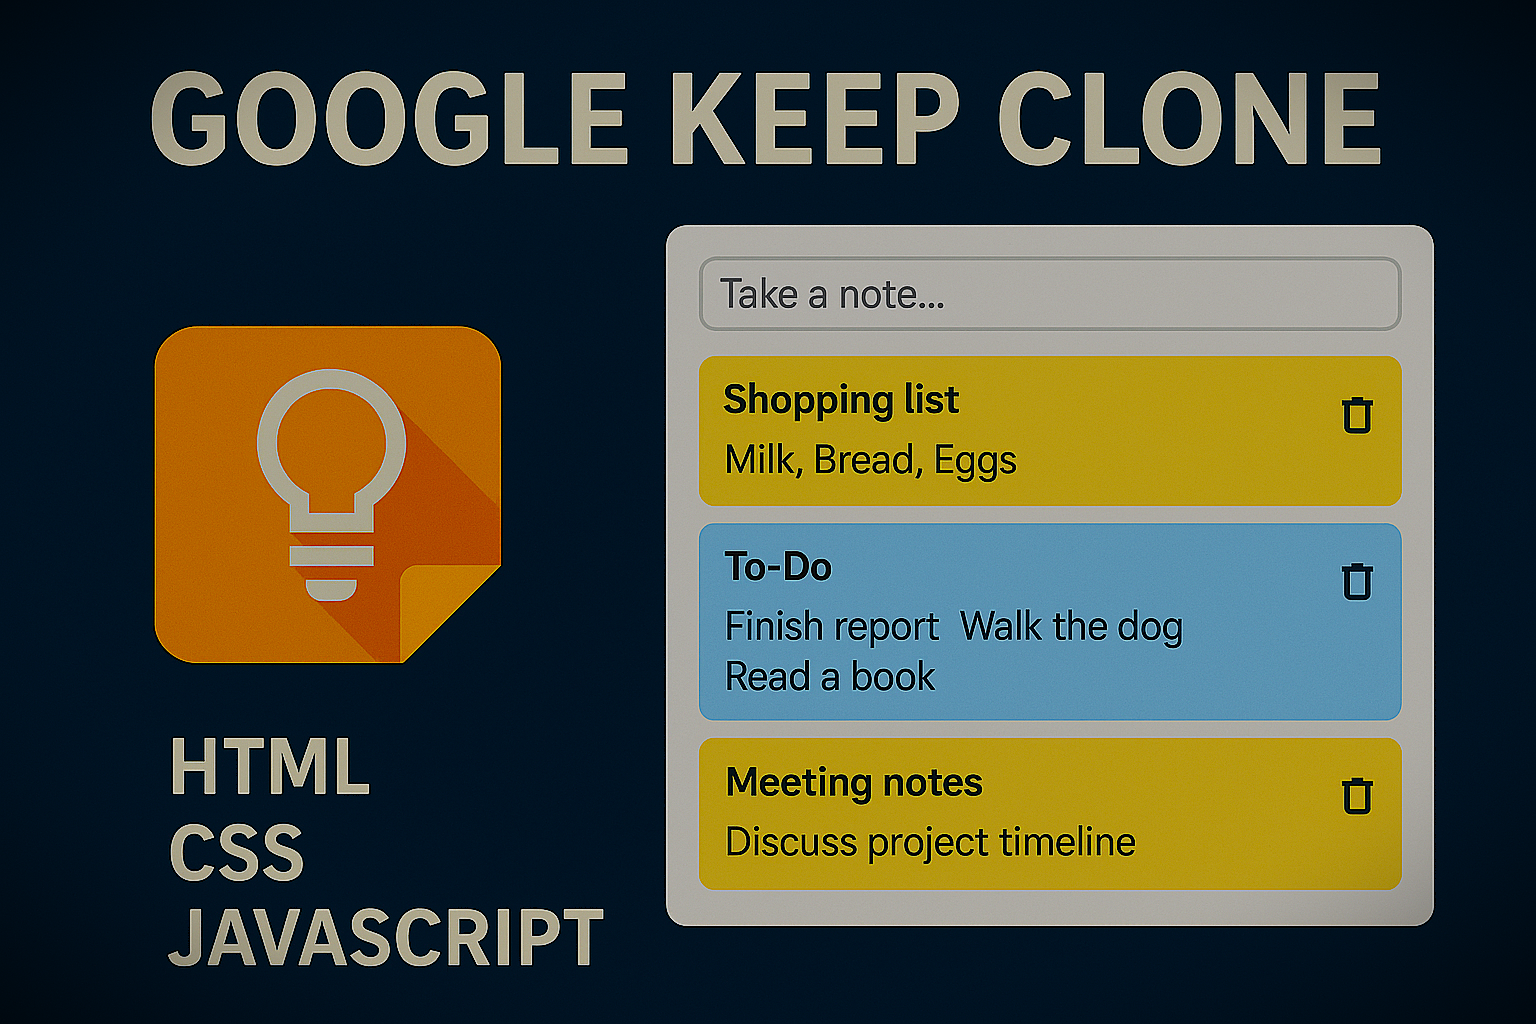
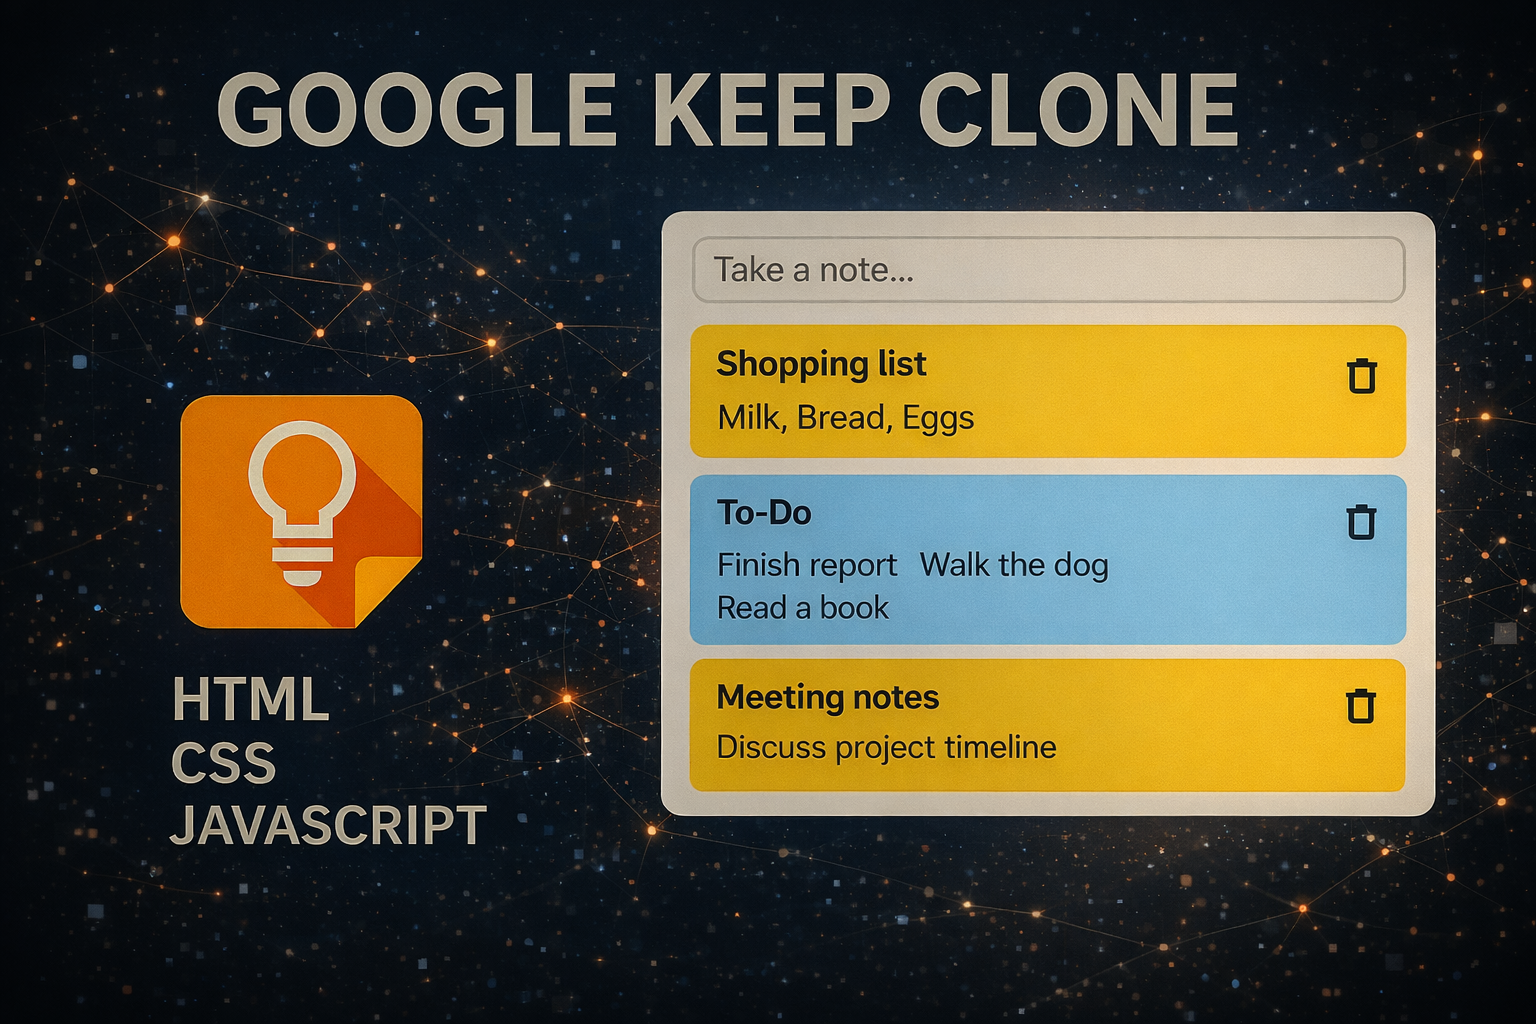
update resume site

diff --git a/about.css b/about.css
@@ -12,7 +12,7 @@ body {
   font-family: 'Poppins', sans-serif;  /* More modern font */
   color: white;
   /* background-color: rgb(235, 0, 0); */
-  background-image: url('images/banner.png');
+  background-image: url('images/imgw_dark.png');
   background-size: cover;
   position: relative;
   background-position: right;
@@ -69,22 +69,38 @@ body {
   margin-bottom: 20px;
 }
 
-.left-section {
+/* .left-section {
   flex: 1;
   margin-right: 20px;
 
   display: flex;          /* Use Flexbox for alignment */
-  justify-content: center; /* Horizontally center the image */
-  align-items: center;    /* Vertically center the image */
-  height: 100%;           /* Ensure the container has a defined height */
-  width: 100%;            /* Optional: Adjust as per your layout */
-}
+  /* justify-content: center; Horizontally center the image */
+  /* align-items: center;    Vertically center the image */
+  /* height: 100%;           Ensure the container has a defined height */
+  /* width: 100%;            Optional: Adjust as per your layout */
+/* } */
 
-.profile-img {
+/* .profile-img {
   max-width: 100%;        /* Make the image responsive */
-  max-height: 100%;       /* Ensure it doesn't exceed the container */
+  /* max-height: 100%;       Ensure it doesn't exceed the container */
+/* } */ 
+
+
+.left-section{
+flex:1;
+margin-right:20px;
+display:flex;
+justify-content:center;
+align-items:center;
+min-height:400px;
 }
 
+.profile-img{
+max-height:350px;
+width:auto;
+/* height:400px; */
+object-fit:contain;
+}
 
 .profile-img {
   width: 100%;

diff --git a/index.css b/index.css
@@ -11,7 +11,7 @@
     font-family: 'Poppins', sans-serif;  /* More modern font */
     color: white;
     background-color: black;
-    /* background: url('images/banner.png') no-repeat center center/cover; Background image */
+    /* background: url('images/network_imgw.png') no-repeat center center/cover; Background image */
   
     z-index: 1; 
   }
@@ -24,7 +24,7 @@
     align-items: center;
     height: 100vh;
     text-align: center;
-    background: url('images/banner_inedex.png') no-repeat center center/cover;  /* Background image */
+    background: url('images/network_imgw.png') no-repeat center center/cover;  /* Background image */
     background-size: cover;
     background-position: right;
     position: relative;
@@ -54,15 +54,18 @@
     font-weight: bold; /* Make it stand out */
   }
 
-  
   header h1 {
     font-size: 3rem;
     margin-bottom: 1rem;
   }
   
-  header p {
+  .intro {
     font-size: 1.5rem;
-    margin-bottom: 2rem;
+    margin-bottom: 0rem;
+  }
+  .typing {
+    font-size: 1.5rem;
+    margin-bottom: 1rem;
   }
   
   header nav {
@@ -173,6 +176,7 @@ nav a.active::after {
     header p {
       font-size: 1.75rem;
     }
+   
   }
   
 

diff --git a/about.html b/about.html
@@ -99,7 +99,7 @@
     <div class="about-container">
         <!-- Left section for photo and description -->
         <div class="left-section">
-            <img src="images/vector.png" alt="Your Image" class="profile-img">
+            <img src="images/vector1.png" alt="Your Image" class="profile-img">
         </div>
         
         <!-- Right section for details -->
@@ -111,7 +111,7 @@
             <div class="details-container">
                 <!-- Left column -->
                 <div class="left-column">
-                    <p><i class="fa fa-mail-forward icon"></i><span>Birthday:</span> 6 October 2004</p>
+                    <p><i class="fa fa-mail-forward icon"></i><span>D.O.B.:</span> 6 October 2004</p>
                     <p><i class="fa fa-mail-forward icon"></i><span>Website:</span> https://ankush-resume.onrender.com/</p>
                     <p><i class="fa fa-mail-forward icon"></i><span>Phone:</span> 9027xxxx80</p>
                 </div>

diff --git a/index.html b/index.html
@@ -41,10 +41,23 @@
 </div>
   <header>
     
-    
+    <!-- <p class="intro">
+  I'm passionate about
+</p>
+
+<p class="typing">
+  <span id="dynamic-text"></span><span class="cursor">|</span>
+</p> -->
     <div class="content">
       <h1>Ankush Parmar</h1>
-      <p>I'm a passionate about <span id="dynamic-text" class="highlight"></span>|</p>
+      <!-- <p>I'm a passionate about <span id="dynamic-text" class="highlight"></span>|</p> -->
+       <p class="intro">
+        I'm passionate about
+      </p>
+
+      <p class="typing">
+        <span id="dynamic-text"></span><span class="cursor">|</span>
+      </p>
       <nav class="navam">
         <a href="index.html" class="active">Home</a>
         <a href="about.html">About</a>

diff --git a/onepage.html b/onepage.html
@@ -234,7 +234,7 @@
             </div>
           </div>
         </div>
-        <div class="project-box" data-category="web" style="background-image: url('images/project9/show.png')">
+        <!-- <div class="project-box" data-category="web" style="background-image: url('images/project9/show.png')">
           <div class="overlay">
             <div class="project-info">
               <h3>V card</h3>
@@ -246,7 +246,7 @@
               </div>
             </div>
           </div>
-        </div>
+        </div> -->
 
 
 

diff --git a/contact.css b/contact.css
@@ -12,7 +12,7 @@ body {
     font-family: 'Poppins', sans-serif;  /* More modern font */
     color: white;
     /* background-color: rgb(235, 0, 0); */
-    background-image: url('images/banner.png');
+    background-image: url('images/imgw_dark.png');
     background-size: cover;
     position: relative;
     background-position: right;

diff --git a/onpage.css b/onpage.css
@@ -13,7 +13,7 @@ body {
   font-family: 'Poppins', sans-serif;  /* More modern font */
     color: white;
     /* background-color: rgb(235, 0, 0); */
-    background-image: url('images/banner.png');
+    background-image: url('images/imgw_dark.png');
     background-size: cover;
     position: relative;
     background-position:right;

diff --git a/services.css b/services.css
@@ -10,7 +10,7 @@
 body {
 font-family: 'Poppins', sans-serif;  /* More modern font */
 color: white;
-background-image: url('images/banner.png');
+background-image: url('images/imgw_dark.png');
 background-size: cover;
 position: relative;
 background-position: right;

diff --git a/resume.css b/resume.css
@@ -19,7 +19,7 @@ body {
   
   color: white;
   /* background-color: rgb(235, 0, 0); */
-  background-image: url('images/banner.png');
+  background-image: url('images/imgw_dark.png');
   background-size: cover;
   position: relative;
   background-position: right;
